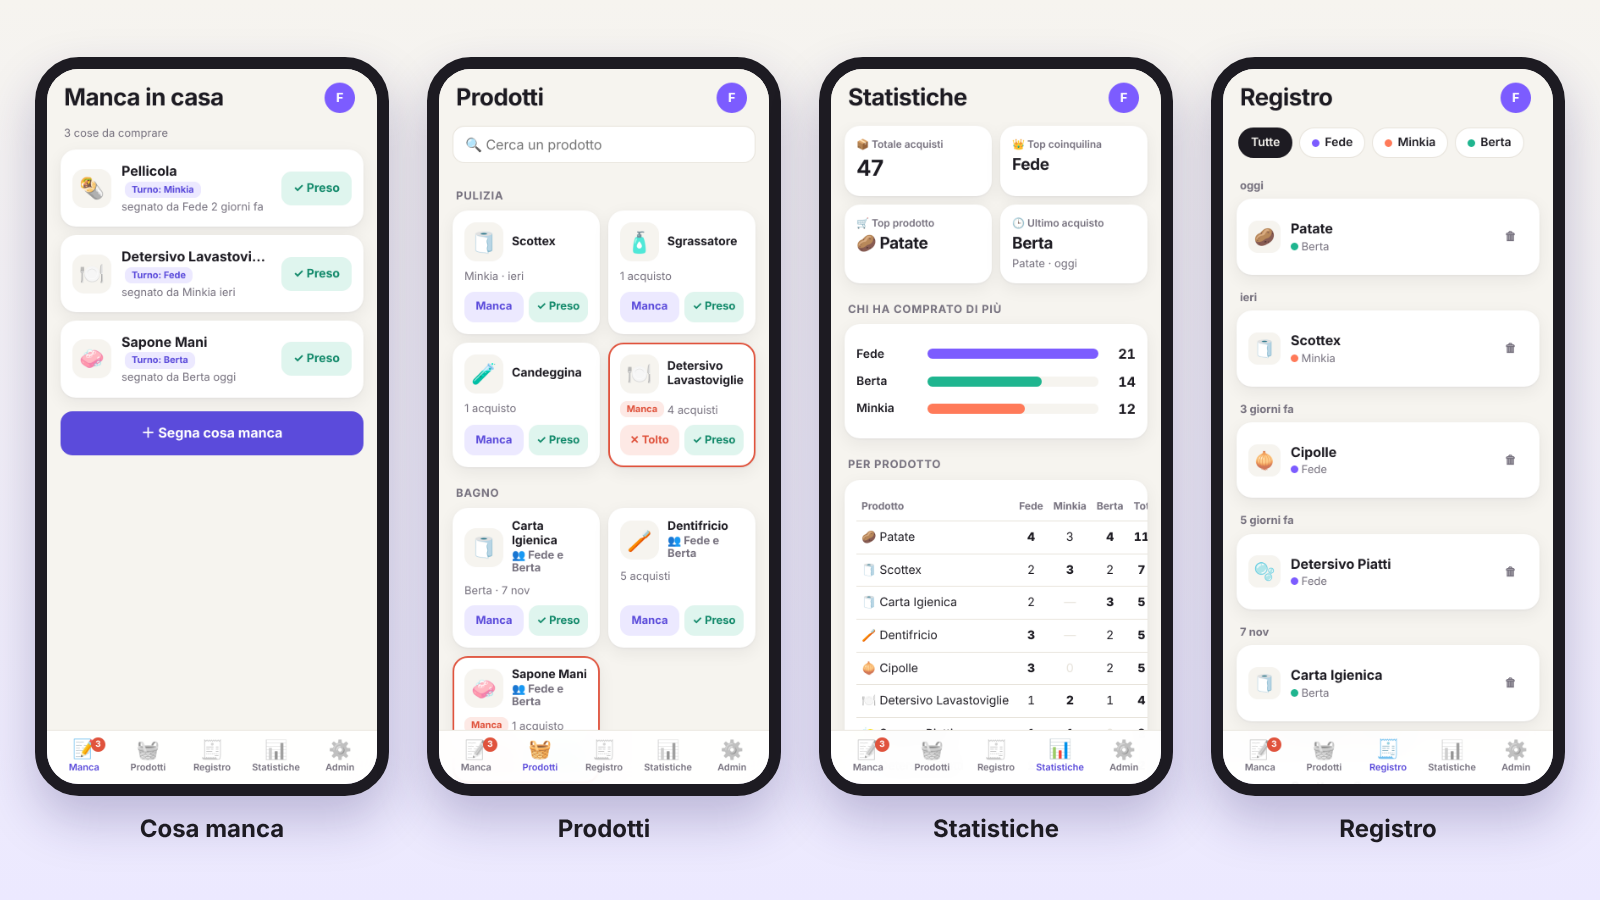
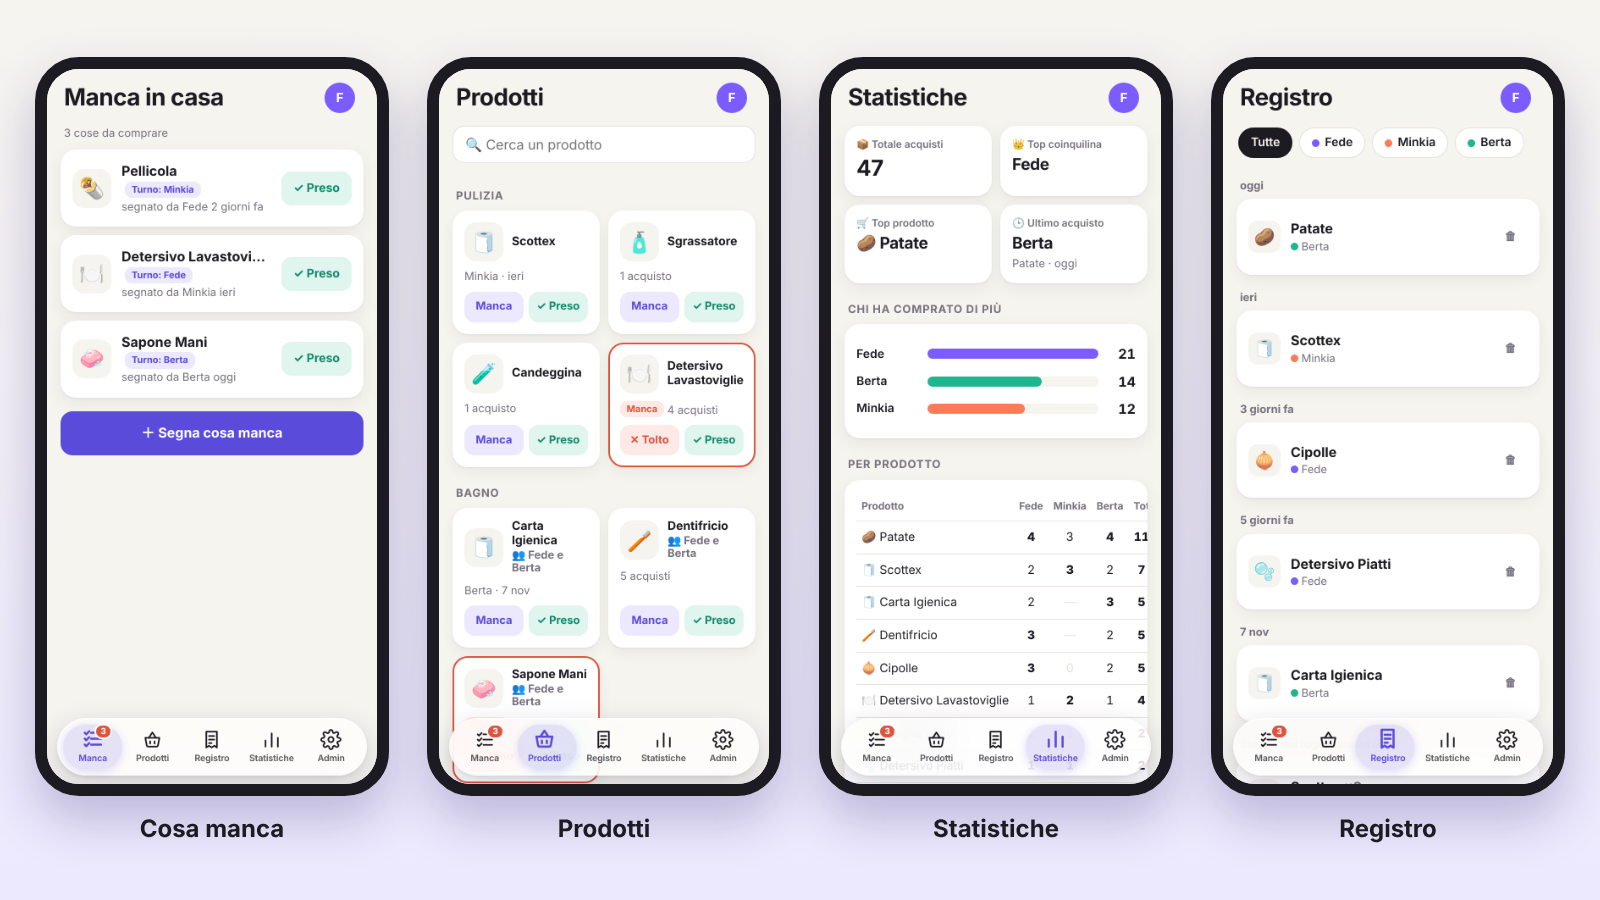
Release v1.5.1
Script per le Release automatiche, CHANGELOG con titoli, schermate GitHub aggiornate.

Claude-Session: https://claude.ai/code/session_011xaB9BT2jKkugQoaKzE8DK

Changed region(s): [[0.2812, 0.7778, 0.7188, 0.8711], [0.75, 0.8089, 0.9688, 0.8711], [0.0312, 0.8089, 0.25, 0.8711]]

diff --git a/sw.js b/sw.js
@@ -1,6 +1,6 @@
 // Service worker: rende l'app installabile e usabile anche con rete scarsa.
 // Ad ogni release cambia CACHE (stesso numero di version.js).
-const CACHE = "tracker-casa-1.5.0";
+const CACHE = "tracker-casa-1.5.1";
 const SHELL = [
   "./", "index.html", "styles.css", "app.js", "version.js", "seed.js",
   "firebase-config.js", "manifest.webmanifest",

diff --git a/version.js b/version.js
@@ -1,2 +1,2 @@
 // Versione corrente dell'app. Ad ogni release: aggiorna qui, in sw.js (CACHE) e in CHANGELOG.md.
-export const VERSION = "1.5.0";
+export const VERSION = "1.5.1";

diff --git a/.github/scripts/releases.py b/.github/scripts/releases.py
@@ -1,0 +1,44 @@
+"""Crea su GitHub una Release per ogni versione di CHANGELOG.md che non ce l'ha ancora.
+
+Intestazioni attese:  ## [1.2.3] — 2026-11-15 — Titolo della release
+La Release punta al commit "Release v1.2.3". Usato da .github/workflows/release.yml.
+"""
+import json, re, subprocess, tempfile
+
+def run(*args):
+    return subprocess.run(args, capture_output=True, text=True, check=True).stdout
+
+cl = open("CHANGELOG.md", encoding="utf-8").read()
+parts = re.split(r"^## \[(\d+\.\d+\.\d+)\](.*)$", cl, flags=re.M)
+versions = []
+for i in range(1, len(parts), 3):
+    v, head, body = parts[i], parts[i + 1], parts[i + 2].strip()
+    bits = [b.strip() for b in head.split("—") if b.strip()]
+    date = bits[0] if bits else ""
+    title = bits[1] if len(bits) > 1 else ""
+    versions.append((v, date, title, body))
+
+key = lambda v: tuple(int(x) for x in v.split("."))
+existing = {r["tagName"] for r in json.loads(run("gh", "release", "list", "--limit", "500", "--json", "tagName") or "[]")}
+commits = {}
+for line in run("git", "log", "--format=%H %s").splitlines():
+    sha, subject = line.split(" ", 1)
+    m = re.match(r"Release v(\d+\.\d+\.\d+)$", subject)
+    if m and m.group(1) not in commits:
+        commits[m.group(1)] = sha
+
+latest = max((v for v, *_ in versions), key=key)
+for v, date, title, body in sorted(versions, key=lambda x: key(x[0])):
+    tag = f"v{v}"
+    if tag in existing:
+        continue
+    if v not in commits:
+        print(f"{tag}: nessun commit 'Release {tag}', salto")
+        continue
+    notes = (f"_Rilasciata il {date}_\n\n" if date else "") + body + "\n\n🌐 **App:** https://tracker-casa-a0c47.web.app"
+    with tempfile.NamedTemporaryFile("w", suffix=".md", delete=False, encoding="utf-8") as f:
+        f.write(notes)
+    run("gh", "release", "create", tag, "--target", commits[v],
+        "--title", f"{tag} — {title}" if title else tag,
+        "--notes-file", f.name, "--latest" if v == latest else "--latest=false")
+    print(f"{tag}: creata")

diff --git a/CHANGELOG.md b/CHANGELOG.md
@@ -1,8 +1,13 @@
 # Changelog
 
-Tutte le modifiche all'app sono registrate qui. Formato: [Keep a Changelog](https://keepachangelog.com/it/1.1.0/), versioni [SemVer](https://semver.org/lang/it/).
+Tutte le modifiche all'app sono registrate qui. Formato del titolo: `## [versione] — data — titolo`: a ogni push su `main` GitHub crea in automatico la Release corrispondente. Formato: [Keep a Changelog](https://keepachangelog.com/it/1.1.0/), versioni [SemVer](https://semver.org/lang/it/).
 
-## [1.5.0] — 2026-11-15
+## [1.5.1] — 2026-11-15 — Release automatiche su GitHub
+### Aggiunto
+- **Release su GitHub**: ogni versione di questo registro diventa una Release del repository, creata in automatico a ogni pubblicazione (`.github/workflows/release.yml` + `.github/scripts/releases.py`). Create anche tutte le Release passate.
+- Schermate della pagina GitHub aggiornate con la nuova barra in stile iOS.
+
+## [1.5.0] — 2026-11-15 — Barra in stile iOS e pannelli trascinabili
 ### Aggiunto
 - **Nuova barra in basso in stile iOS**: capsula "di vetro" sospesa, icone disegnate come quelle di iOS, pillola che scorre con effetto molla sotto la scheda attiva, numeri che saltano quando cambiano, tocco con piccolo rimbalzo.
 - Cambio scheda con dissolvenza del contenuto; toccare la scheda già aperta riporta in cima.
@@ -10,19 +15,19 @@ Tutte le modifiche all'app sono registrate qui. Formato: [Keep a Changelog](http
 ### Corretto
 - I pannelli dal basso (es. "Cosa manca?") ora si chiudono **trascinandoli giù**, con la **X** in alto a destra, toccando la lineetta o toccando fuori; la chiusura è animata.
 
-## [1.4.3] — 2026-11-15
+## [1.4.3] — 2026-11-15 — Login su iPhone corretto
 ### Corretto
 - Login con Google su iPhone: risolto "Errore 400: redirect_uri_mismatch". Ora il login si apre in una finestra (popup) sul dominio già autorizzato di Firebase, senza bisogno di configurare Google Cloud.
 
-## [1.4.2] — 2026-11-15
+## [1.4.2] — 2026-11-15 — Grafica sempre aggiornata
 ### Corretto
 - Anche la grafica (styles.css) si aggiorna subito dopo ogni release, senza aspettare la cache del browser.
 
-## [1.4.1] — 2026-11-15
+## [1.4.1] — 2026-11-15 — Icone sempre aggiornate
 ### Corretto
 - Le icone si aggiornano subito anche sui telefoni che avevano ancora in memoria quella vecchia.
 
-## [1.4.0] — 2026-11-15
+## [1.4.0] — 2026-11-15 — Nuova icona e pagina GitHub
 ### Aggiunto
 - **Nuova icona dell'app** (casa con spunta, sfondo viola sfumato) per la schermata Home dell'iPhone, Android e il browser; sorgente in `icons/icon.svg`.
 - Icona mostrata anche nella schermata di accesso e di caricamento.
@@ -31,15 +36,15 @@ Tutte le modifiche all'app sono registrate qui. Formato: [Keep a Changelog](http
 ### Modificato
 - `docs/` esclusa dalla pubblicazione su Firebase Hosting.
 
-## [1.3.2] — 2026-11-15
+## [1.3.2] — 2026-11-15 — Pubblicazione automatica da GitHub
 ### Aggiunto
 - Pubblicazione automatica con GitHub Actions (`.github/workflows/deploy.yml`): ogni push su `main` pubblica l'app su Firebase Hosting, senza Terminale.
 
-## [1.3.1] — 2026-11-15
+## [1.3.1] — 2026-11-15 — Progetto Firebase collegato
 ### Modificato
 - Progetto Firebase `tracker-casa-a0c47` già collegato in `.firebaserc`: per pubblicare basta `firebase deploy`.
 
-## [1.3.0] — 2026-11-15
+## [1.3.0] — 2026-11-15 — Passaggio a Firebase Hosting
 ### Modificato
 - **Hosting spostato da Netlify a Firebase Hosting** (gratuito, non consuma i crediti Netlify).
 - La configurazione Firebase viene letta in automatico da `/__/firebase/init.json`: non serve più incollarla.
@@ -50,7 +55,7 @@ Tutte le modifiche all'app sono registrate qui. Formato: [Keep a Changelog](http
 ### Rimosso
 - `netlify.toml`.
 
-## [1.2.0] — 2026-11-15
+## [1.2.0] — 2026-11-15 — Richieste di accesso
 ### Aggiunto
 - **Richieste di accesso**: chi entra con Google senza essere autorizzato invia una richiesta e aspetta; l'amministratore in Admin tocca "chi è" (Fede, Berta, Minkia) e l'app le si apre da sola. Non serve più conoscere le email in anticipo.
 - Nome vero delle coinquiline (Federica, Beatrice, Rosi) accanto al soprannome.
@@ -59,14 +64,14 @@ Tutte le modifiche all'app sono registrate qui. Formato: [Keep a Changelog](http
 ### Modificato
 - Regole Firestore: nuova raccolta `requests`.
 
-## [1.1.0] — 2026-11-15
+## [1.1.0] — 2026-11-15 — Bagno condiviso e iPhone
 ### Aggiunto
 - **Partecipanti per prodotto**: ogni prodotto può essere di tutte o solo di alcune coinquiline. Ognuna vede (lista, prodotti, registro, statistiche) solo ciò a cui partecipa; turni calcolati solo tra le partecipanti.
 - Prodotti del bagno in comune (Carta Igienica, Dentifricio, Sapone Mani) assegnati a Fede e Berta, nuova categoria "Bagno".
 - Ottimizzazione iPhone: login Google tramite redirect sullo stesso dominio (proxy Netlify `/__/auth`), niente zoom sui campi, menu e date in stile iOS, aree sicure.
 - Uso solo in verticale: in orizzontale compare l'invito a ruotare il telefono.
 
-## [1.0.0] — 2026-11-15
+## [1.0.0] — 2026-11-15 — Prima versione
 Prima release.
 
 ### Aggiunto

diff --git a/README.md b/README.md
@@ -3,7 +3,8 @@
 <p align="center">
   <a href="https://tracker-casa-a0c47.web.app"><b>🌐 Apri l'app</b></a> ·
   <a href="CHANGELOG.md">📝 Novità</a> ·
-  <img alt="versione" src="https://img.shields.io/badge/versione-1.5.0-5B4BDB">
+  <a href="https://github.com/TheRealJayser/tracker-casa/releases">🏷 Release</a> ·
+  <img alt="versione" src="https://img.shields.io/badge/versione-1.5.1-5B4BDB">
   <img alt="iPhone" src="https://img.shields.io/badge/iPhone-PWA-1d1b22?logo=apple">
   <img alt="Firebase" src="https://img.shields.io/badge/Firebase-Spark%20(gratis)-FFCA28?logo=firebase&logoColor=black">
 </p>
@@ -127,7 +128,7 @@ Nessuna carta di credito, quindi **nessun addebito possibile**. Se un limite gio
 Ogni modifica è una release, registrata in `CHANGELOG.md`:
 1. aumenta la versione in `version.js` **e** `CACHE` in `sw.js` (es. `1.0.0` → `1.1.0`);
 2. aggiungi la voce in cima a `CHANGELOG.md`;
-3. commit `Release vX.Y.Z` + tag `vX.Y.Z` (opzionale: *Releases → Draft new release* su GitHub);
+3. commit `Release vX.Y.Z` (il titolo della sezione nel CHANGELOG diventa il titolo della Release, creata in automatico da GitHub);
 4. `firebase deploy` (o push su `main` se hai attivato il deploy automatico).
 
 Versioni: **MAJOR** = cambia la struttura dati · **MINOR** = nuova funzione · **PATCH** = correzione.
